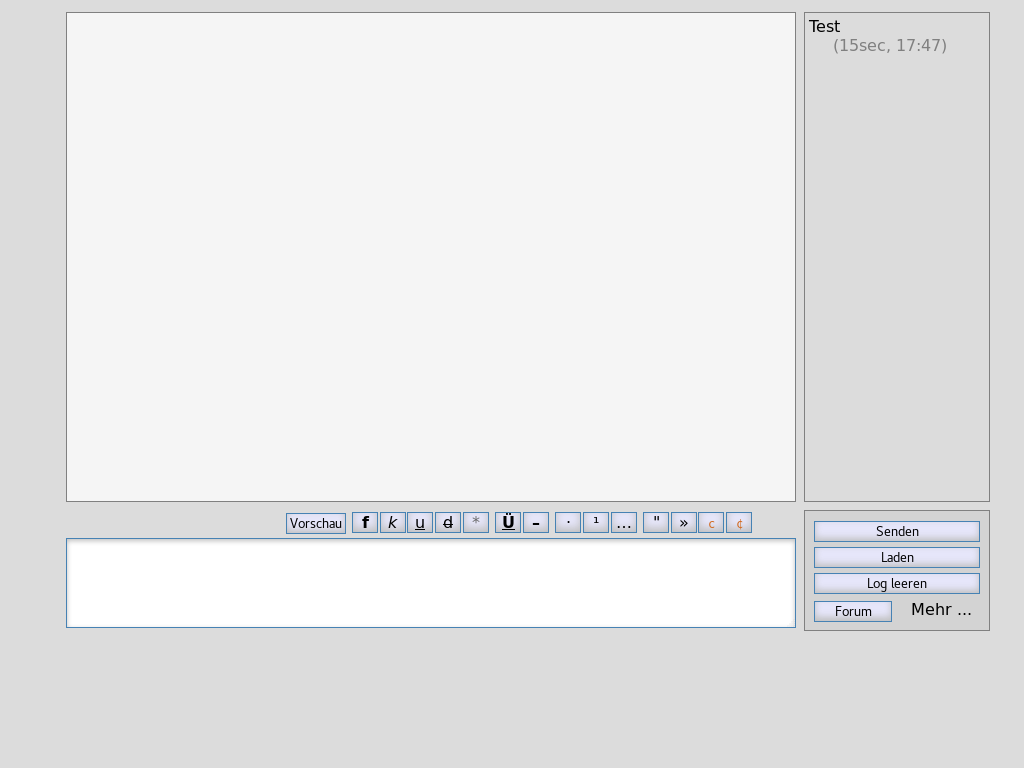
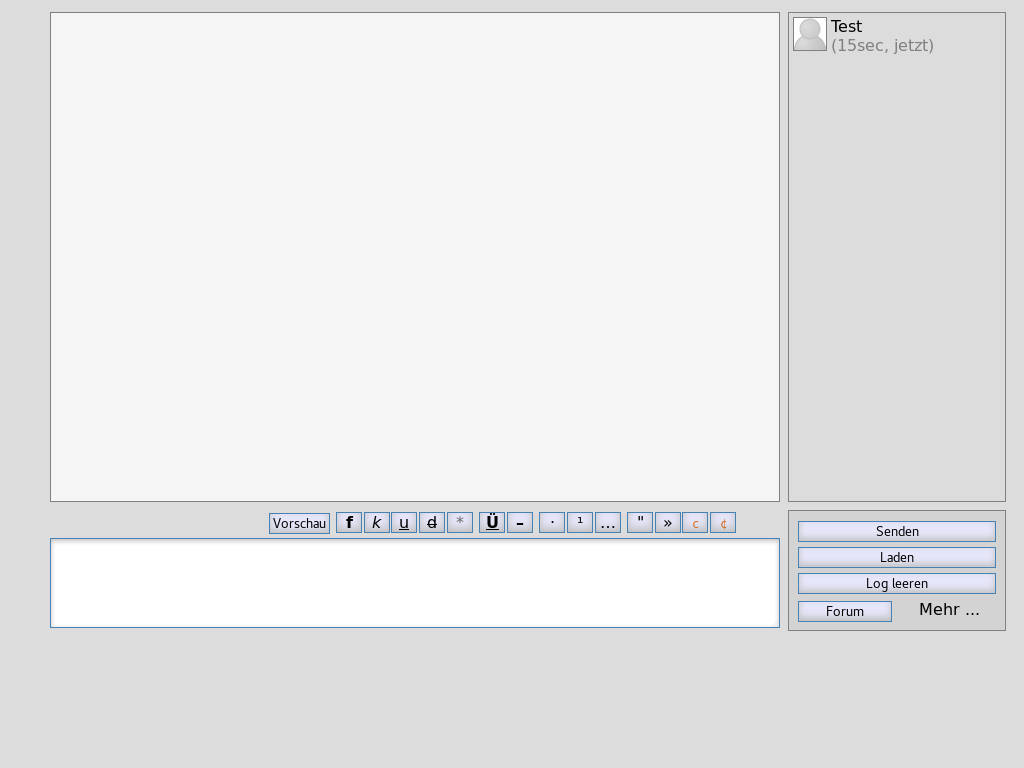
Avatare in der Userliste vom Chat

diff --git a/public/js/chat.js b/public/js/chat.js
@@ -60,7 +60,7 @@ ffcdata.chat.init = function() {
             else {
                 uh = users[i][0];
             }
-            uh = '<span class="username">' + uh + '</span>';
+            uh = '<img class="avatar" src="' + users[i][6] + '" /><span class="username">' + uh + '</span>';
             ul = ul +'<p>' + uh + '<br /><span class="timestamp">(';
             if ( users[i][2] >= 60 )
                 ul = ul + ( users[i][2] / 60 ) + 'min';
@@ -77,7 +77,7 @@ ffcdata.chat.init = function() {
     /************************************************************************
      *** Neue Chatnachrichten zusammenbauen                               ***
      ************************************************************************/
-    var compose_msg = function(msgs, i, started, users){
+    var compose_msg = function(msgs, i, started){
         var newdaymsg = false;
         var userstrthing = '';
         var userstr = '';
@@ -140,7 +140,7 @@ ffcdata.chat.init = function() {
     /************************************************************************
      *** Neue Chatnachrichten anzeigen                                    ***
      ************************************************************************/
-    var add_msgs = function(msgs, started, users) {
+    var add_msgs = function(msgs, started) {
         if ( msgs.length > 0 ) {
             var ml = msglog.innerHTML;
             var relevantcnt = 0;
@@ -184,7 +184,7 @@ ffcdata.chat.init = function() {
         update_userlist(data[1]);
 
         // Neue Nachrichten ins Log schreiben
-        add_msgs(data[0], started, data[1]);
+        add_msgs(data[0], started);
 
         // Timeout wieder neu starten
         t_start();

diff --git a/public/theme/chat.css b/public/theme/chat.css
@@ -22,8 +22,6 @@ table {
 }
 div, textarea {
     border: .1em gray solid;
-}
-div, textarea {
     display: inline-block;
     overflow: auto;
 }
@@ -35,7 +33,7 @@ div, textarea {
     font-family: sans-serif;
 }
 #userlist, #buttonlist {
-    width: 11em;
+    width: 13em;
 }
 #textinput {
     height: 5em;
@@ -71,13 +69,22 @@ div, textarea {
 }
 #userlist .timestamp {
     color: gray;
-    margin-left: 1.5em;
 }
 #userlist .username {
     white-space: nowrap;
 }
 #userlist {
     background: gainsboro;
+}
+#userlist img {
+    height: 2em;
+    max-width: 3em;
+    margin-right: .25em;
+    float: left;
+    border: .1em gray solid;
+}
+#userlist p {
+    clear: both;
 }
 .titlebanner {
     background: inherit;
@@ -187,9 +194,6 @@ div, textarea {
 .chatoptionpopup {
     border: none;
 }
-span.username > a {
-    color: navy;
-}
 span.chatoptionpopupswitch {
     color: black;
 }
@@ -211,3 +215,4 @@ input#refreshtime {
 #buttonlist td button {
     width: 100%;
 }
+
